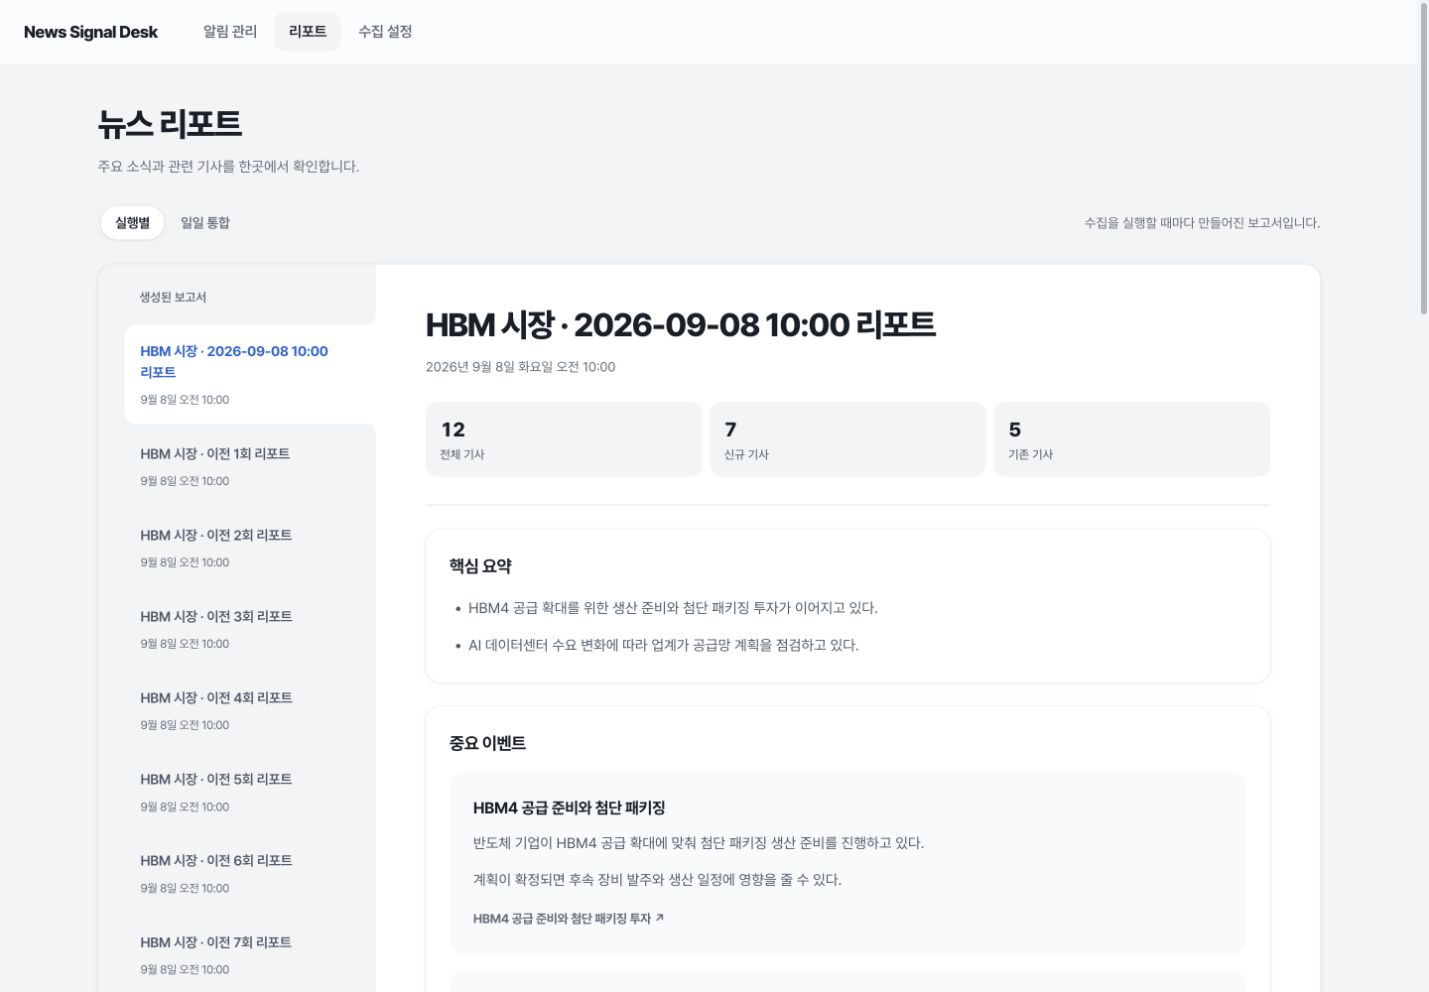
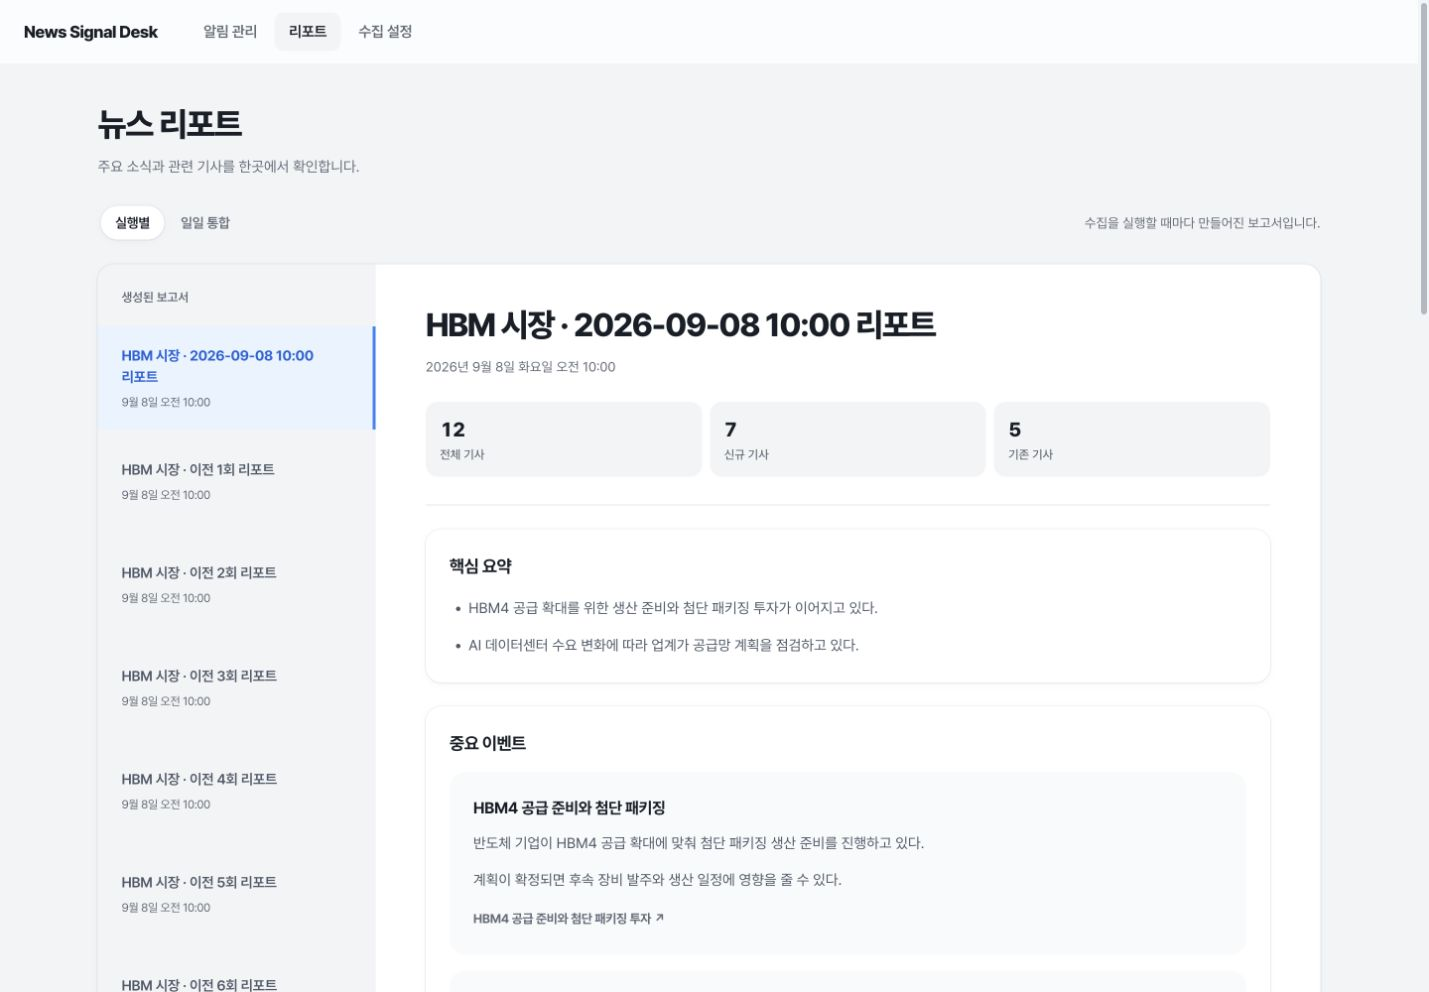
[REFACTOR/#194] 참고 디자인에 맞춰 보고서 사이드바 정리

diff --git a/FE/src/App.css b/FE/src/App.css
@@ -2674,31 +2674,27 @@ body.modal-open {
   min-width: 0;
   position: sticky;
   top: 5.5rem;
-  padding: 1.5rem 0 1.5rem 1rem;
+  padding: 1.5rem 0;
 }
 
 .report-list-scroll {
   max-height: calc(100dvh - 13rem);
-  padding-block: var(--radius-xs);
   overflow-x: hidden;
   overflow-y: auto;
   overscroll-behavior: contain;
-  scrollbar-gutter: stable;
-  scrollbar-width: thin;
-  scrollbar-color: transparent transparent;
-  direction: rtl;
+  scrollbar-width: none;
 }
 
-.report-list:hover .report-list-scroll,
-.report-list:focus-within .report-list-scroll {
-  scrollbar-color: var(--fg-4) transparent;
+/* 선택 면이 본문 경계에 닿도록 스크롤바 공간을 없앤다. 스크롤 동작은 유지한다. */
+.report-list-scroll::-webkit-scrollbar {
+  display: none;
 }
 
 .report-list-heading {
   display: flex;
   align-items: center;
   justify-content: space-between;
-  padding: 0 1rem 0.65rem calc(1rem + 10px);
+  padding: 0 1.5rem 1.25rem;
   color: var(--fg-3);
   font-size: 0.78rem;
   font-weight: 600;
@@ -2709,18 +2705,18 @@ body.modal-open {
 }
 
 .report-list-item {
-  position: relative;
   display: flex;
   width: 100%;
+  min-height: 6.5rem;
   flex-direction: column;
   align-items: flex-start;
-  gap: 0.5rem;
-  padding: 1rem 1.5rem 1rem 1rem;
-  border-radius: var(--radius-sm);
+  justify-content: center;
+  gap: 0.35rem;
+  padding: 1rem 1.5rem;
+  border-radius: 0;
   background: transparent;
   color: var(--fg-2);
   text-align: left;
-  direction: ltr;
   transition: background var(--dur-1) var(--ease-out), box-shadow var(--dur-2) var(--ease-out);
 }
 
@@ -2729,48 +2725,15 @@ body.modal-open {
   transform: none;
 }
 
-.report-list-item + .report-list-item {
-  margin-top: 0.2rem;
-}
-
 .report-list-item:hover:not(.active) {
   background: color-mix(in srgb, var(--surface) 65%, var(--line-soft));
   color: var(--fg);
 }
 
 .report-list-item.active {
-  z-index: 1;
-  border-radius: var(--radius-sm) 0 0 var(--radius-sm);
-  background: var(--surface);
+  background: var(--primary-weak);
   color: var(--primary-strong);
-}
-
-/* 선택한 행의 흰 면이 본문으로 이어지며 위아래 모서리만 부드럽게 돌아간다. */
-.report-list-item::before,
-.report-list-item::after {
-  position: absolute;
-  right: 0;
-  width: var(--radius-xs);
-  height: var(--radius-xs);
-  content: '';
-  opacity: 0;
-  pointer-events: none;
-  transition: opacity var(--dur-1) var(--ease-out);
-}
-
-.report-list-item::before {
-  top: calc(-1 * var(--radius-xs));
-  background: radial-gradient(circle at top left, transparent calc(var(--radius-xs) - 0.5px), var(--surface) var(--radius-xs));
-}
-
-.report-list-item::after {
-  bottom: calc(-1 * var(--radius-xs));
-  background: radial-gradient(circle at bottom left, transparent calc(var(--radius-xs) - 0.5px), var(--surface) var(--radius-xs));
-}
-
-.report-list-item.active::before,
-.report-list-item.active::after {
-  opacity: 1;
+  box-shadow: inset -3px 0 var(--primary);
 }
 
 .report-list-item:focus-visible {
@@ -2784,7 +2747,7 @@ body.modal-open {
   -webkit-line-clamp: 2;
   word-break: keep-all;
   overflow-wrap: anywhere;
-  font-size: 0.88rem;
+  font-size: 0.9rem;
   font-weight: 600;
   line-height: 1.5;
   letter-spacing: -0.02em;
@@ -4121,14 +4084,15 @@ body.modal-open {
   .report-list-scroll {
     display: flex;
     max-height: none;
-    padding-block: 0;
     overflow-x: auto;
-    direction: ltr;
-    scrollbar-gutter: auto;
     scrollbar-width: auto;
     scrollbar-color: var(--fg-4) transparent;
     scroll-snap-type: x proximity;
     scroll-padding-left: 0.6rem;
+  }
+
+  .report-list-scroll::-webkit-scrollbar {
+    display: block;
   }
 
   .report-list-heading {
@@ -4137,7 +4101,11 @@ body.modal-open {
 
   .report-list-item {
     min-width: 210px;
+    min-height: 0;
+    justify-content: flex-start;
+    gap: 0.5rem;
     padding: 0.85rem;
+    border-radius: var(--radius-sm);
     scroll-snap-align: start;
   }
 
@@ -4149,11 +4117,6 @@ body.modal-open {
 
   .report-list-item:hover:not(.active) {
     background: var(--line-soft);
-  }
-
-  .report-list-item::before,
-  .report-list-item::after {
-    display: none;
   }
 
   .report-list-item + .report-list-item {

diff --git a/docs/validation/refactor-194/validation.md b/docs/validation/refactor-194/validation.md
@@ -27,11 +27,11 @@
 ### 보고서 여백과 목록·본문 연결
 
 - 보고서 제목의 카드 상단 간격을 24px에서 40px로 늘렸다. 목록 제목의 상단 간격은 36px에서 24px로 줄이고 목록 항목의 텍스트와 가로 정렬을 맞췄다.
-- 데스크톱 목록과 본문을 같은 둥근 카드 안에 배치했다. 선택 항목의 흰 배경이 위아래 오목한 곡선을 거쳐 본문으로 직접 이어진다. 연결선·위치 측정 코드·상단 색상 그라데이션 없이 CSS로 구현했다. 기존 테마 색상·모서리·그림자·모션 토큰을 사용한다.
+- 사용자 참고 이미지에 맞춰 데스크톱 목록을 직선형 사이드바로 구성했다. 선택 행 전체에 기존 옅은 파란색을 적용하고 본문에 닿는 오른쪽 끝에 3px 파란 포인트를 표시한다. 둥근 외곽 카드와 흰 본문은 유지한다. 굴곡진 연결 모양·위치 측정 코드 없이 CSS로 구현했다.
 - 본문 전체의 좌우 여백은 화면 폭에 따라 32~56px로 늘렸다(1440px에서 약 50px, 920px에서 약 32px). 제목·통계·본문 카드가 같은 기준선으로 정렬된다. 제목 위 40px 여백은 유지했다.
-- CUA에서 1440px·920px·390px을 확인했다. 데스크톱의 선택 항목 오른쪽과 본문 왼쪽 좌표 차이는 0px이며, 다른 항목과 목록 끝 항목을 선택했을 때도 본문 제목과 선택 면이 일치한다. 목록 스크롤바만 왼쪽에 배치하고 내용의 읽기 방향은 유지했다.
-- 모바일에서는 기존 가로 목록과 개별 카드를 유지하고 연결 곡선을 숨긴다. 스크롤 방향과 24px 본문 여백도 복원했다. 세 화면 모두 페이지 가로 넘침이 없다.
-- 목록 폭은 230~280px로 제한하고 제목(최대 두 줄)과 생성 시간만 표시한다. 목록의 반복 분석 건수·빨간 민감도 숫자·범위 문구를 제거했다. 전체 제목은 접근 가능한 텍스트와 title 속성에 보존하며 본문 통계와 이슈 정보는 유지한다. 비선택 제목의 강조를 낮추고 곡선은 8px로 줄였다. 데스크톱 스크롤바는 목록에 마우스를 올리거나 키보드 초점이 들어왔을 때 표시한다.
+- CUA에서 1440px·920px·390px을 확인했다. 데스크톱의 선택 항목 오른쪽과 본문 왼쪽 좌표 차이는 0px이며, 목록 끝 항목 선택 시 스크롤과 본문 제목 일치를 확인했다. 목록 제목과 행의 텍스트 시작점 차이는 0px, 일반 행과 선택 행 높이는 모두 104px이다.
+- 모바일에서는 기존 가로 목록·둥근 선택 카드·스크롤바와 24px 본문 여백을 유지한다. 세 화면 모두 페이지 가로 넘침이 없다.
+- 목록 폭은 230~280px로 제한하고 제목(최대 두 줄)과 생성 시간만 표시한다. 목록의 반복 분석 건수·빨간 민감도 숫자·범위 문구를 제거했다. 전체 제목은 접근 가능한 텍스트와 title 속성에 보존하며 본문 통계와 이슈 정보는 유지한다. 데스크톱 스크롤바 공간과 RTL 배치를 제거해 오른쪽 선택 표시가 본문 경계에 붙는다. overflow 스크롤과 버튼 초점 표시는 유지했다.
 - 상단 메뉴 선택 배경은 목록과 동일한 `--line-soft`(#f2f4f6), 글자는 `--fg`로 변경했다. CUA에서 알림 관리·리포트·수집 설정 전환과 회색 선택 면 위치를 확인했다. 모바일 메뉴 트랙은 투명하게 바꿔 회색 선택 면이 구분된다. 기존 선택 이동·크기 애니메이션은 유지했다.
 - 보완 후 `cd FE && pnpm lint && pnpm build && pnpm test` 재실행: lint·build 및 테스트 11개 통과.
 
